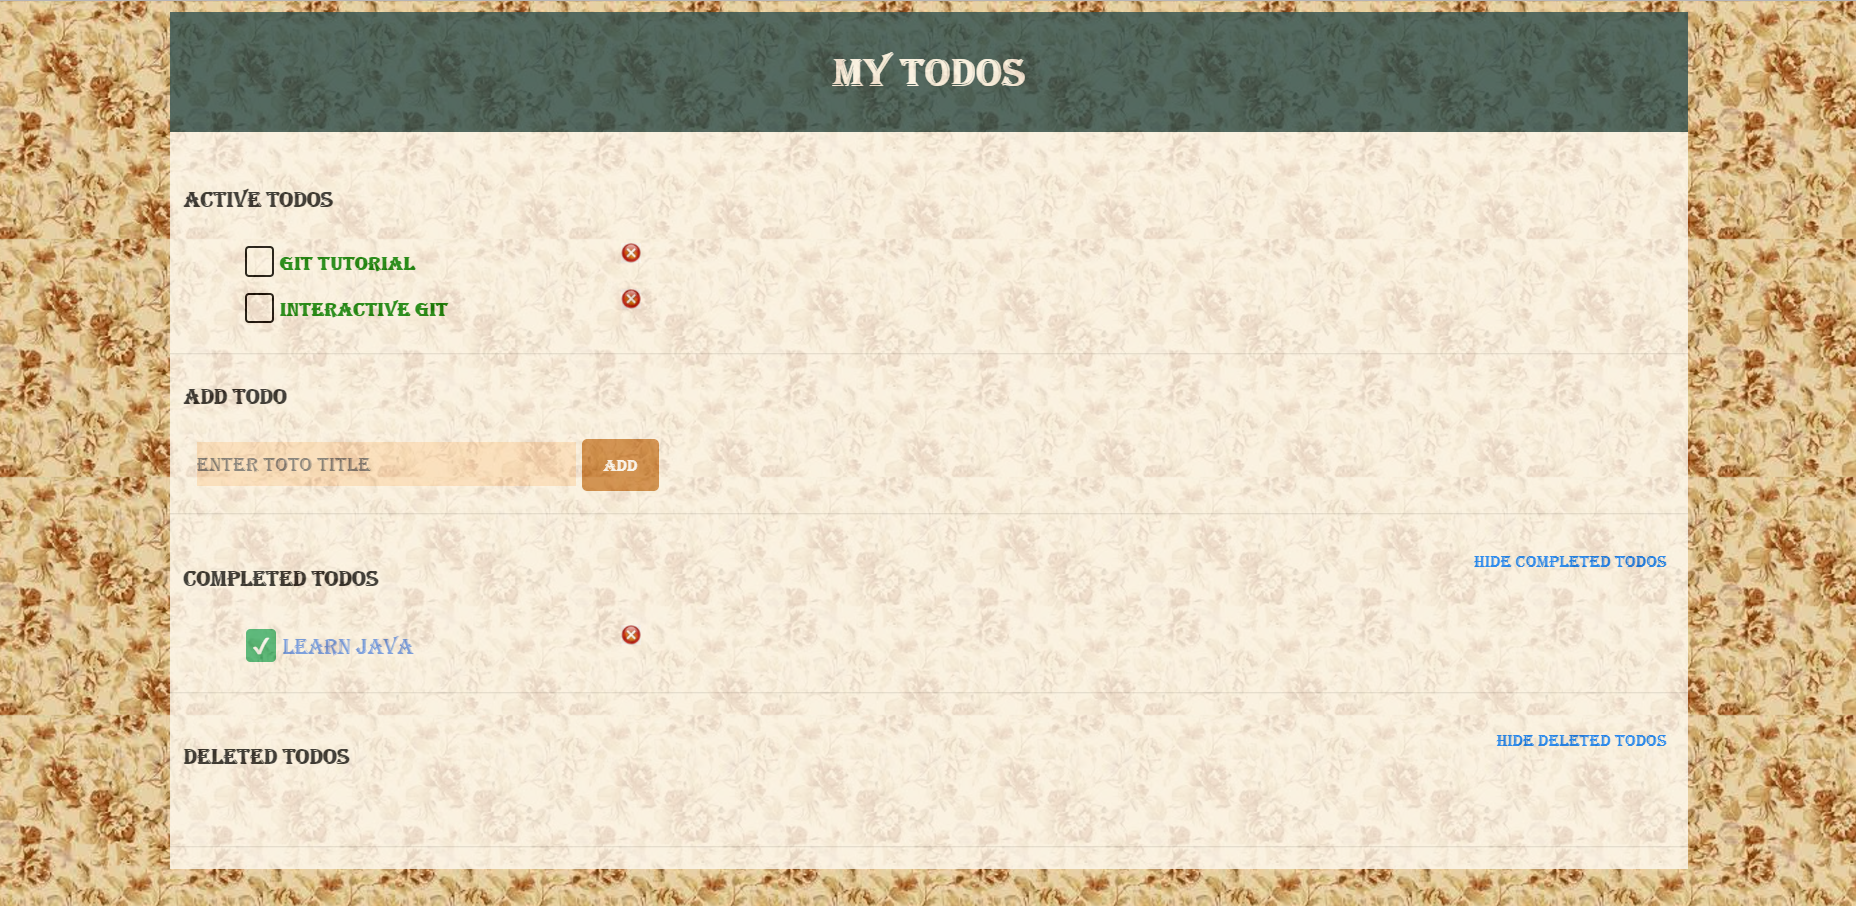
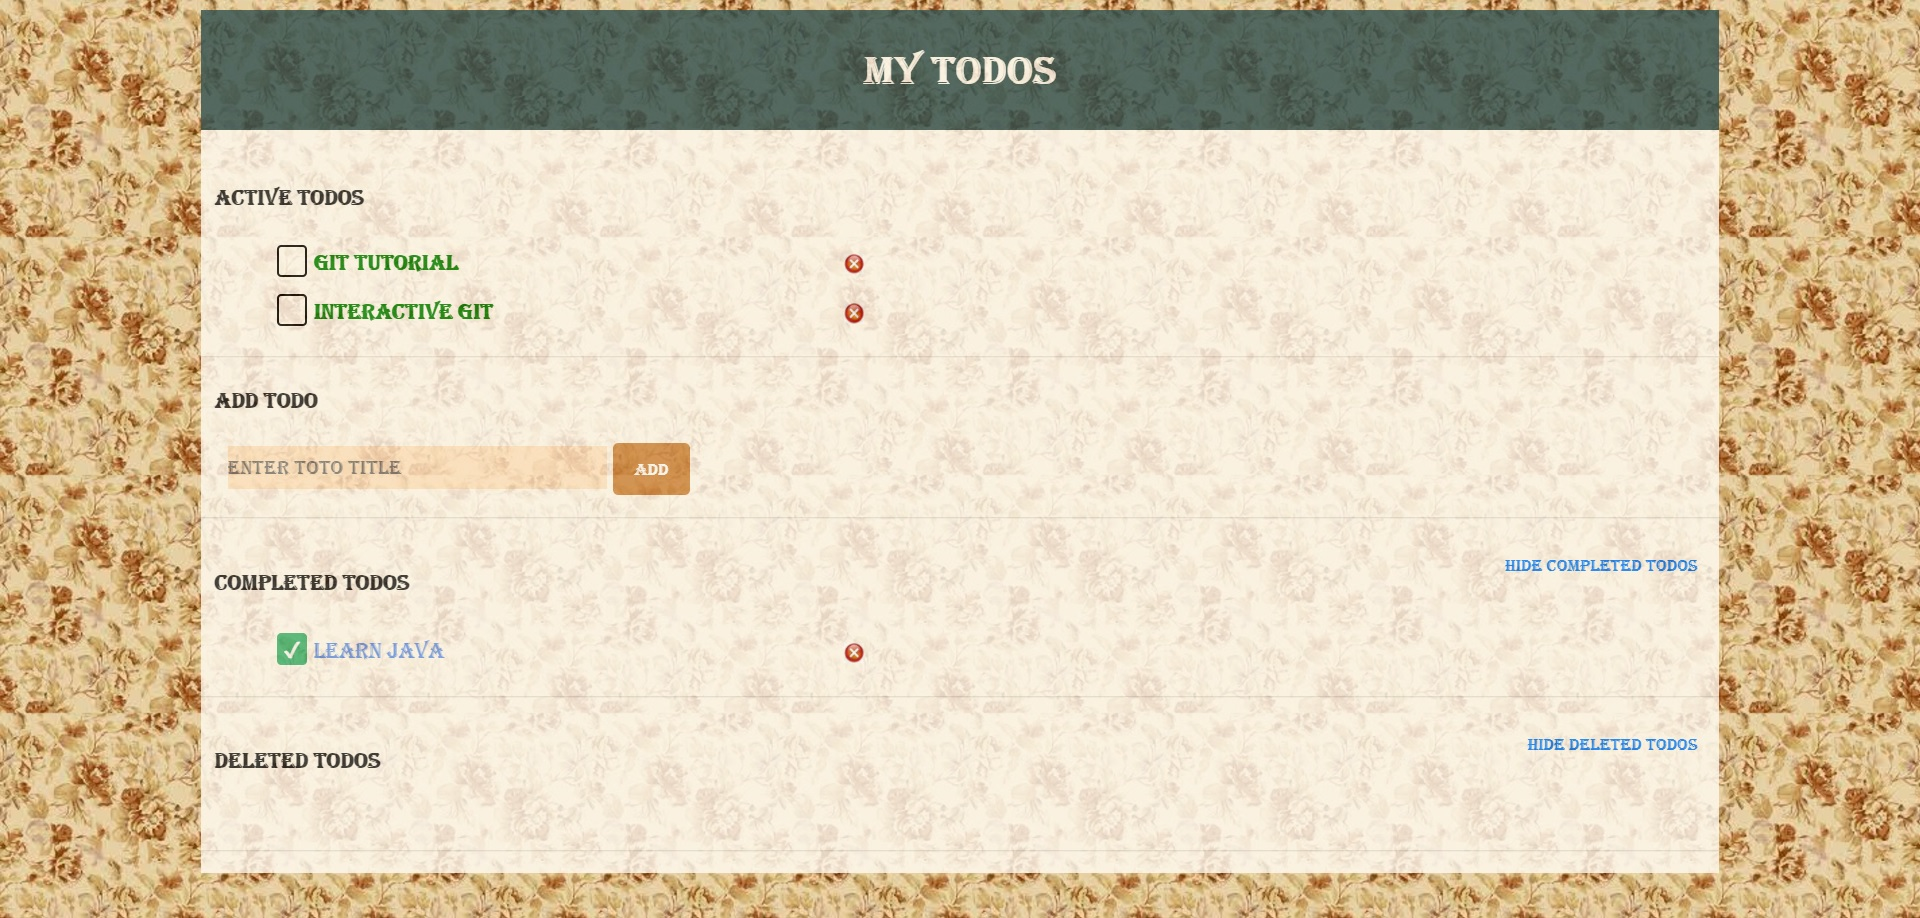
third commit

diff --git a/public/script.js b/public/script.js
@@ -1,4 +1,4 @@
-    const RESPONSE_DONE=4;
+const RESPONSE_DONE=4;
 const STATUS_OK=200;
 console.log("hi");
 //window.onload=getTodosAJAX();
@@ -47,7 +47,7 @@ window.onload=addDeleteAJAX();
     }
 function createTodoElement(id,todo_object){
     var todo_element=document.createElement("div");
-    todo_element.innerHTML="<label  for="+id+">"+todo_object.title+"</label>";
+    todo_element.innerHTML="<label class='head1' style='display:block; width:300px;' for="+id+">"+todo_object.title+"</label>";
     todo_element.setAttribute("data-id",id);
     todo_element.setAttribute("class","todoStatus"+todo_object.status);
 
@@ -66,6 +66,7 @@ function createTodoElement(id,todo_object){
         complete_button.setAttribute("src","cross1.jpg");
         complete_button.setAttribute("class","cross_image head1");
         complete_button.setAttribute("onclick","deleteTodoAJAX("+id+")");
+        complete_button.setAttribute("style","color:red");
         todo_element.insertBefore(complete_button,todo_element.firstChild);
     }
 
@@ -278,9 +279,6 @@ function completeTodoAJAX(id) {
         if(e.keyCode === 13){
             addTodoAJAX(); }}
 
-    $("#hide_deleted").click(function(){
-        $("#deleted_list").fadeToggle("slow");
-            });
 
 
 

diff --git a/public/index.html b/public/index.html
@@ -7,6 +7,7 @@
     <title>Todo App</title>
 
     <link rel="stylesheet" href="/style.css">
+    <link rel="stylesheet" href="https://cdnjs.cloudflare.com/ajax/libs/font-awesome/4.7.0/css/font-awesome.min.css">
 
 </head>
 <body style="overflow-x: hidden; background-image: url('back7.jpg'); opacity: 0.8 ">
@@ -19,7 +20,7 @@
          <h4 class="head ">Active Todos</h4>
 
 
-<div id="active_list" class="active">
+<div id="active_list" class=" active">
 
 </div>
 <hr class="alert-primary">

diff --git a/index.js b/index.js
@@ -5,12 +5,14 @@ var bodyparser=require("body-parser");
 
 console.log(todo_db);
 var app=express();
+
 app.use("/",express.static(__dirname+"/public"));
 
 app.use("/",bodyparser.urlencoded({extended:false}));
 
 app.get("/api/todos",function(req,res){
     res.json(todo_db.todos);
+    console.log(req.headers.host);
     //res.json({a:"rahul"});
 
 });
@@ -113,4 +115,4 @@ app.put("/api/todos/:state/:id",function (req,res) {
     }
 });
 
-app.listen(8080);
+app.listen(5000);

diff --git a/public/style.css b/public/style.css
@@ -115,8 +115,9 @@ input[type=text]:focus{
      height: 15px;
      width:15px;
      float: left;
-     margin-left: 20%;
-     margin-right: 80%;
+     margin-top: 10px;
+     margin-left: 30%;
+     margin-right: 70%;
      position: absolute;
      display: inline-block;
  }
